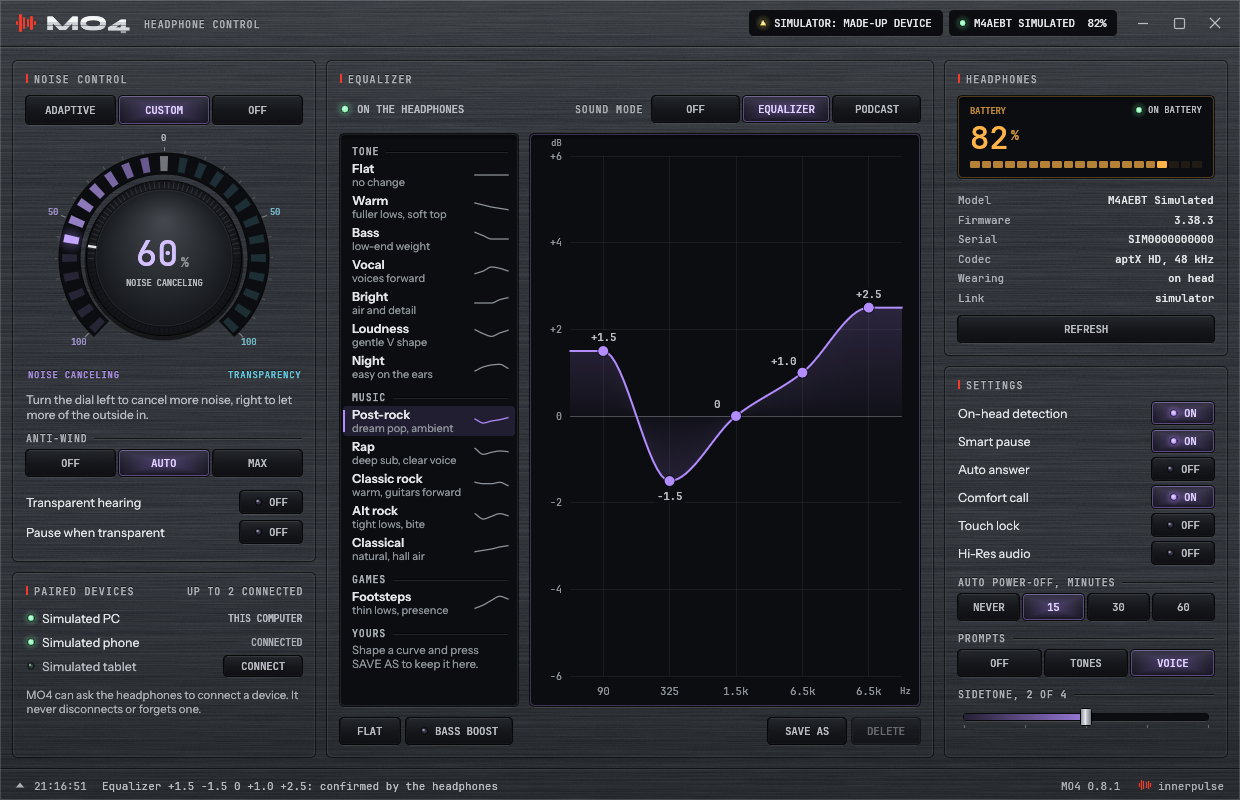
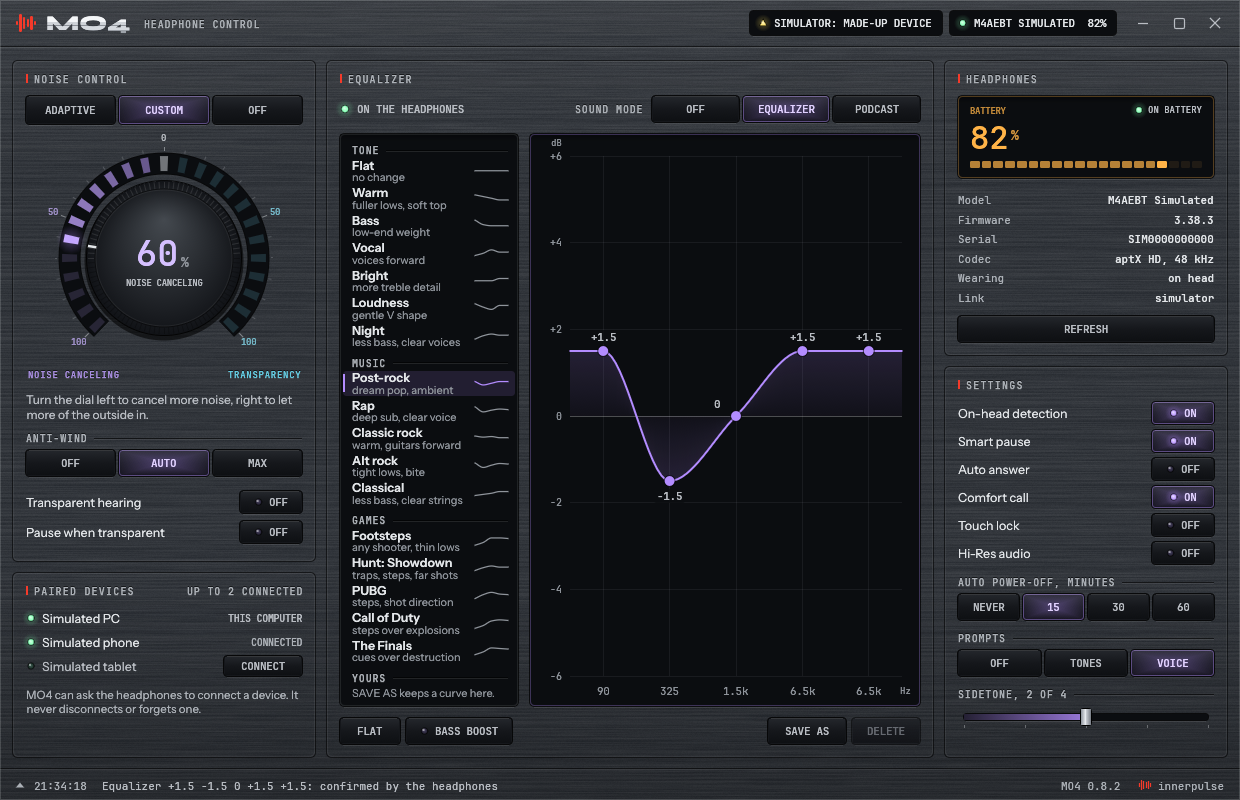
Version 0.8.2: presets checked against the bands, and four game curves
The built-in curves were written as if the fifth band sat above the
fourth. The headphones report 6.5 kHz for both, and what kind of filter
each band is has not been measured or published: the last two may be
one bell twice, or a bell and a shelf. So each curve was worked out for
bells throughout, for a shelf on top, and for a shelf at both ends.

Every built-in curve now keeps the last two bands within half a dB of
each other and their sum inside 6 dB. Its shape then holds on all three
readings, and no point of it moves by more than about 2 dB between
them. A test pins that. What changed because of it:

- Bright was +2.5 and +4.0, as much as +6.5 dB at 6.5 kHz; it is +2.0
  and +2.0. Footsteps was +5.0 and +3.0, as much as +8; it is +2.5 and
  +2.0 with more at 1.5 kHz.
- Classic rock, Night and Warm leaned on the two bands differing. Their
  intent is carried by 1.5 kHz and by equal top bands now.
- Bass adds less at 325 Hz: the wide 90 Hz band already reaches there.
- Notes that promised "air" say what the curve does.

New, for positional cues and clarity: Hunt: Showdown, PUBG, Call of
Duty and The Finals. They take the low band down, since rumble masks
quiet cues and these headphones add bass of their own, and bring up the
bands from about 1 to 6 kHz, each as far as its game's mix calls for.
They are reasoned starting points, not measurements; the README says
what they rest on and that published advice on footstep frequencies
disagrees.
[…]

diff --git a/src/store.rs b/src/store.rs
@@ -21,34 +21,63 @@ pub const YOURS: &str = "yours";
 /// Curves for the five-band equalizer, written for this app: group, name, note, and
 /// the gain of each band in tenths of a dB, lowest band first.
 ///
-/// The music curves are starting points by ear, not measurements. They assume what
-/// reviews agree on about these headphones, a bass-forward stock tuning, so they add
-/// less bass than a curve for a neutral headphone would, and they stay inside the
-/// headphones' range of 6 dB either way.
-const BUILTIN: [(&str, &str, &str, [i8; 5]); 13] = [
+/// What is known about the bands is what the headphones report: 90 Hz, 325 Hz, 1.5 kHz
+/// and 6.5 kHz twice, the first one wide (Q 0.5), the rest two octaves or so (Q 0.71).
+/// What kind of filter each one is has not been measured, and nobody has published it.
+/// The last two may be the same bell twice, or a bell and a shelf. So every curve here
+/// keeps those two within half a dB of each other and their sum inside 6 dB: worked out
+/// for bells throughout, for a shelf on top, and for a shelf at both ends, each curve
+/// keeps its shape, and no point of it moves by more than about 2 dB between the three.
+///
+/// These are starting points by ear and by reasoning, not measurements. They assume
+/// what reviews agree on about these headphones, a bass-forward stock tuning, so they
+/// add less bass than a curve for a neutral headphone would.
+const BUILTIN: [(&str, &str, &str, [i8; 5]); 17] = [
     ("tone", "Flat", "no change", [0, 0, 0, 0, 0]),
-    ("tone", "Warm", "fuller lows, soft top", [30, 15, 0, -10, -20]),
-    ("tone", "Bass", "low-end weight", [50, 25, 0, 0, 0]),
-    ("tone", "Vocal", "voices forward", [-20, 0, 30, 20, 0]),
-    ("tone", "Bright", "air and detail", [0, 0, 0, 25, 40]),
-    ("tone", "Loudness", "gentle V shape", [40, 10, -10, 15, 35]),
-    ("tone", "Night", "easy on the ears", [-30, 0, 15, 20, -10]),
+    ("tone", "Warm", "fuller lows, soft top", [30, 15, 0, -15, -15]),
+    // The wide 90 Hz band already reaches the low mids; only a little is added at 325.
+    ("tone", "Bass", "low-end weight", [50, 10, 0, 0, 0]),
+    ("tone", "Vocal", "voices forward", [-20, 0, 30, 10, 10]),
+    ("tone", "Bright", "more treble detail", [0, 0, 0, 20, 20]),
+    ("tone", "Loudness", "gentle V shape", [40, 10, -10, 25, 25]),
+    ("tone", "Night", "less bass, clear voices", [-30, 0, 15, 5, 5]),
     // Layered, reverb-heavy and quiet-to-loud: depth for pads and sub-bass, the low
-    // mids thinned so the wash stays clear, soft vocals left alone, air on top.
-    ("music", "Post-rock", "dream pop, ambient", [15, -15, 0, 10, 25]),
+    // mids thinned so the wash stays clear, soft vocals left alone, a lifted top.
+    ("music", "Post-rock", "dream pop, ambient", [15, -15, 0, 15, 15]),
     // Sub-bass carries the track and the voice has to stay in front of it: weight at
     // the bottom, mud out, a little presence for consonants and hi-hats.
     ("music", "Rap", "deep sub, clear voice", [35, -10, 5, 15, 10]),
     // Tape-era records are light below the kick and live in the mids: body and
-    // warmth added, guitars and voices forward, the top eased to keep cymbals kind.
-    ("music", "Classic rock", "warm, guitars forward", [20, 10, 10, 20, -5]),
+    // warmth added, guitars and voices brought forward at 1.5 kHz, the top left alone.
+    ("music", "Classic rock", "warm, guitars forward", [20, 10, 15, 5, 5]),
     // Dense, loud modern masters: punch kept tight, the crowded low mids pulled
-    // back, bite for distorted guitars without piling on the top.
-    ("music", "Alt rock", "tight lows, bite", [25, -15, 5, 25, 10]),
+    // back, bite for distorted guitars.
+    ("music", "Alt rock", "tight lows, bite", [25, -15, 5, 20, 15]),
     // An orchestra wants the headphone out of the way: the stock bass lift taken
-    // down, the mids untouched, strings and hall air brought up gently.
-    ("music", "Classical", "natural, hall air", [-20, -10, 0, 15, 25]),
-    ("games", "Footsteps", "thin lows, presence", [-40, -15, 20, 50, 30]),
+    // down, the mids untouched, strings brought up gently.
+    ("music", "Classical", "less bass, clear strings", [-20, -10, 0, 15, 15]),
+    // The games. What they share: rumble masks the quiet sounds that give a position
+    // away, and these headphones add bass of their own, so the low band comes down;
+    // steps, reloads and the cues that say where a sound is live from about 1 to 6 kHz,
+    // so those bands come up. How far each goes depends on the game's mix.
+    //
+    // For any shooter without a curve of its own.
+    ("games", "Footsteps", "any shooter, thin lows", [-40, -15, 25, 25, 20]),
+    // Sound is the game, and it uses the whole range: steps thud on wood and splash in
+    // water, crows, chains and glass give a position away, and how far off a shot was
+    // is told by its boom and its echo. The gentlest curve here: a little rumble out,
+    // the low mids kept, the middle up, and not much treble, because the guns are loud.
+    ("games", "Hunt: Showdown", "traps, steps, far shots", [-20, 5, 20, 10, 10]),
+    // Steps are heavy and sit lower than in most shooters, and a shot is placed by
+    // its crack and its thump together: the low mids are kept and lifted a little,
+    // the middle comes up the most, vehicles and the bombing lose some rumble.
+    ("games", "PUBG", "steps, shot direction", [-25, 10, 30, 15, 10]),
+    // The busiest mix of the four: explosions, streaks and aircraft bury quiet steps.
+    // The strongest cut below, low mids included, and the most lift where steps are.
+    ("games", "Call of Duty", "steps over explosions", [-45, -20, 20, 30, 25]),
+    // Buildings come down all match long. Between the last two: the rumble of
+    // destruction down, steps, gadgets and their beeps up.
+    ("games", "The Finals", "cues over destruction", [-35, -10, 25, 20, 15]),
 ];
 
 pub fn builtin_presets() -> Vec<Preset> {
@@ -167,6 +196,18 @@ mod tests {
         }
     }
 
+    /// The headphones report one frequency for the last two bands, and whether they
+    /// are the same filter is not known. A curve that leans on the difference between
+    /// them, or stacks them, would be a different curve on each reading.
+    #[test]
+    fn builtin_curves_treat_the_twin_bands_alike() {
+        for p in builtin_presets() {
+            let (a, b) = (p.gains[3], p.gains[4]);
+            assert!((a - b).abs() <= 5, "{}: the last two bands differ by more than half a dB", p.name);
+            assert!((a + b).abs() <= 60, "{}: the last two bands add up to more than 6 dB", p.name);
+        }
+    }
+
     #[test]
     fn builtin_presets_are_distinct_and_findable() {
         let all = builtin_presets();
@@ -178,5 +219,8 @@ mod tests {
         }
         assert_eq!(find_preset(&all, "classic rock").map(|p| p.group), Some("music"));
         assert!(find_preset(&all, "post-rock").is_some());
+        for game in ["Hunt: Showdown", "pubg", "call of duty", "the finals", "footsteps"] {
+            assert_eq!(find_preset(&all, game).map(|p| p.group), Some("games"), "{game}");
+        }
     }
 }

diff --git a/src/ui/mod.rs b/src/ui/mod.rs
@@ -56,6 +56,8 @@ struct App {
     delete_asked: Option<Instant>,
     /// When the Hi-Res switch was first pressed; it goes on at the second press.
     hi_res_asked: Option<Instant>,
+    /// The preset that was just saved, until the list has scrolled to it.
+    saved: Option<String>,
     /// The paired device whose CONNECT key was pressed once, and when.
     connect_asked: Option<(u8, Instant)>,
     /// The same for SWITCH OFF on the USB card.
@@ -75,7 +77,7 @@ pub fn run(target: Target, trace: bool, shot: Option<(String, Duration)>) -> Res
         .with_title("MO4")
         .with_app_id("mo4")
         .with_inner_size([1240.0, 800.0])
-        .with_min_inner_size([1140.0, 790.0])
+        .with_min_inner_size([1140.0, 800.0])
         .with_icon(egui::IconData { rgba: include_bytes!("../../assets/icon-256.rgba").to_vec(), width: 256, height: 256 })
         .with_decorations(false);
     let options = eframe::NativeOptions { viewport, ..Default::default() };
@@ -105,6 +107,7 @@ pub fn run(target: Target, trace: bool, shot: Option<(String, Duration)>) -> Res
                 hint: None,
                 delete_asked: None,
                 hi_res_asked: None,
+                saved: None,
                 connect_asked: None,
                 off_asked: None,
                 shot: shot.map(|(path, delay)| Shot { path, frames: 0, requested: false, started: Instant::now(), delay }),
@@ -521,15 +524,22 @@ impl App {
         egui::ScrollArea::vertical().show(&mut child, |ui| {
             let mut group = "";
             let heading = |ui: &mut Ui, text: &str| {
-                let (r, _) = ui.allocate_exact_size(vec2(ui.available_width(), 22.0), Sense::hover());
-                widgets::caption(ui.painter(), Rect::from_min_max(pos2(r.left() + 11.0, r.top() + 8.0), pos2(r.right() - 9.0, r.bottom())), text);
+                let (r, _) = ui.allocate_exact_size(vec2(ui.available_width(), 20.0), Sense::hover());
+                widgets::caption(ui.painter(), Rect::from_min_max(pos2(r.left() + 11.0, r.top() + 7.0), pos2(r.right() - 9.0, r.bottom())), text);
             };
             for preset in self.presets.iter().filter(|x| x.gains.len() == bands) {
                 if preset.group != group {
                     group = preset.group;
                     heading(ui, group);
                 }
-                let (row, resp) = ui.allocate_exact_size(vec2(ui.available_width(), 32.0), if usable { Sense::click() } else { Sense::hover() });
+                // Rows are as tight as two lines allow, so every built-in curve is in view
+                // at the window's first size; the list scrolls once your own are added.
+                let (row, resp) = ui.allocate_exact_size(vec2(ui.available_width(), 27.5), if usable { Sense::click() } else { Sense::hover() });
+                if self.saved.as_deref() == Some(preset.name.as_str()) {
+                    // A curve that was just saved is brought into view.
+                    resp.scroll_to_me(Some(egui::Align::Center));
+                    self.saved = None;
+                }
                 let active = usable && preset.gains == shown;
                 let rp = widgets::painter(ui, usable);
                 let hover = ui.ctx().animate_bool(resp.id.with("hover"), resp.hovered() && usable);
@@ -540,9 +550,9 @@ impl App {
                     rp.rect_filled(Rect::from_min_size(row.min + vec2(2.0, 5.0), vec2(2.0, row.height() - 10.0)), CornerRadius::same(1), TINT);
                 }
                 let text_clip = rp.with_clip_rect(Rect::from_min_max(row.min, pos2(row.right() - 46.0, row.bottom())).intersect(rp.clip_rect()));
-                text_clip.text(row.min + vec2(11.0, 2.0), Align2::LEFT_TOP, &preset.name, semi(12.5), steel::TEXT);
-                text_clip.text(row.min + vec2(11.0, 16.5), Align2::LEFT_TOP, &preset.note, sans(11.0), steel::TEXT_3);
-                widgets::spark(&rp, Rect::from_min_max(pos2(row.right() - 42.0, row.top() + 8.0), pos2(row.right() - 9.0, row.bottom() - 8.0)), &preset.gains, if active { TINT } else { steel::TEXT_3 });
+                text_clip.text(row.min + vec2(11.0, 0.5), Align2::LEFT_TOP, &preset.name, semi(12.5), steel::TEXT);
+                text_clip.text(row.min + vec2(11.0, 14.0), Align2::LEFT_TOP, &preset.note, sans(11.0), steel::TEXT_3);
+                widgets::spark(&rp, Rect::from_min_max(pos2(row.right() - 42.0, row.top() + 7.0), pos2(row.right() - 9.0, row.bottom() - 7.0)), &preset.gains, if active { TINT } else { steel::TEXT_3 });
                 resp.widget_info(|| egui::WidgetInfo::selected(egui::WidgetType::Button, usable, active, format!("Preset {}", preset.name)));
                 if resp.has_focus() {
                     rp.rect_stroke(row.shrink2(vec2(2.0, 1.0)), CornerRadius::same(steel::R_KEY), Stroke::new(1.0, steel::EMBER), StrokeKind::Inside);
@@ -554,9 +564,8 @@ impl App {
             if !self.presets.iter().any(|x| !x.builtin) {
                 // Nothing of the user's own yet: say how to get one here.
                 heading(ui, store::YOURS);
-                let (r, _) = ui.allocate_exact_size(vec2(ui.available_width(), 36.0), Sense::hover());
-                let g = ui.painter().layout("Shape a curve and press SAVE AS to keep it here.".to_owned(), sans(11.5), steel::TEXT_3, r.width() - 22.0);
-                ui.painter().galley(r.min + vec2(11.0, 2.0), g, steel::TEXT_3);
+                let (r, _) = ui.allocate_exact_size(vec2(ui.available_width(), 20.0), Sense::hover());
+                ui.painter().text(r.min + vec2(11.0, 2.0), Align2::LEFT_TOP, "SAVE AS keeps a curve here.", sans(11.0), steel::TEXT_3);
             }
         });
         if let Some(gains) = apply {
@@ -656,7 +665,10 @@ impl App {
         self.presets.retain(|x| !x.name.eq_ignore_ascii_case(name));
         self.presets.push(Preset { name: name.to_string(), note: "saved by you".into(), gains, builtin: false, group: store::YOURS });
         match store::save_presets(&self.presets) {
-            Ok(()) => self.note(format!("Preset \"{name}\" saved"), Tone::Good),
+            Ok(()) => {
+                self.saved = Some(name.to_string());
+                self.note(format!("Preset \"{name}\" saved"), Tone::Good);
+            }
             Err(e) => self.note(format!("Could not save presets: {e}"), Tone::Bad),
         }
     }

diff --git a/src/cli.rs b/src/cli.rs
@@ -225,7 +225,7 @@ pub fn run(args: &[String], target: &Target, trace: bool) -> Result<(), String> 
         Some("help") | Some("--help") | Some("-h") => print!("{HELP}"),
         Some("presets") => {
             for p in store::load_presets() {
-                println!("{:<6} {:<13} {:<28} {}", p.group, p.name, device::gains_text(&p.gains), p.note);
+                println!("{:<6} {:<15} {:<26} {}", p.group, p.name, device::gains_text(&p.gains), p.note);
             }
         }
         Some("status") => {

diff --git a/README.md b/README.md
@@ -91,22 +91,43 @@ each still has its own gain, and the window says so when you point at them.
 | Group | Preset | Curve | For |
 |---|---|---|---|
 | Tone | Flat | 0 0 0 0 0 | no change |
-| Tone | Warm | +3.0 +1.5 0 -1.0 -2.0 | fuller lows, a softer top |
-| Tone | Bass | +5.0 +2.5 0 0 0 | low-end weight |
-| Tone | Vocal | -2.0 0 +3.0 +2.0 0 | voices forward |
-| Tone | Bright | 0 0 0 +2.5 +4.0 | air and detail |
-| Tone | Loudness | +4.0 +1.0 -1.0 +1.5 +3.5 | a gentle V for low volume |
-| Tone | Night | -3.0 0 +1.5 +2.0 -1.0 | easy on the ears |
-| Music | Post-rock | +1.5 -1.5 0 +1.0 +2.5 | post-rock, dream pop, ambient electronica: depth for pads, a clear wash, air on top |
+| Tone | Warm | +3.0 +1.5 0 -1.5 -1.5 | fuller lows, a softer top |
+| Tone | Bass | +5.0 +1.0 0 0 0 | low-end weight |
+| Tone | Vocal | -2.0 0 +3.0 +1.0 +1.0 | voices forward |
+| Tone | Bright | 0 0 0 +2.0 +2.0 | more treble detail |
+| Tone | Loudness | +4.0 +1.0 -1.0 +2.5 +2.5 | a gentle V for low volume |
+| Tone | Night | -3.0 0 +1.5 +0.5 +0.5 | less bass, clear voices |
+| Music | Post-rock | +1.5 -1.5 0 +1.5 +1.5 | post-rock, dream pop, ambient electronica: depth for pads, a clear wash, a lifted top |
 | Music | Rap | +3.5 -1.0 +0.5 +1.5 +1.0 | sub-bass weight with the voice kept in front |
-| Music | Classic rock | +2.0 +1.0 +1.0 +2.0 -0.5 | body and warmth, guitars forward, an easier top |
-| Music | Alt rock | +2.5 -1.5 +0.5 +2.5 +1.0 | tight punch, less mud, guitar bite |
-| Music | Classical | -2.0 -1.0 0 +1.5 +2.5 | less of the stock bass lift, strings and hall air |
-| Games | Footsteps | -4.0 -1.5 +2.0 +5.0 +3.0 | thin lows, lifted presence |
+| Music | Classic rock | +2.0 +1.0 +1.5 +0.5 +0.5 | body and warmth, guitars forward |
+| Music | Alt rock | +2.5 -1.5 +0.5 +2.0 +1.5 | tight punch, less mud, guitar bite |
+| Music | Classical | -2.0 -1.0 0 +1.5 +1.5 | less of the stock bass lift, clear strings |
+| Games | Footsteps | -4.0 -1.5 +2.5 +2.5 +2.0 | any shooter without a curve of its own |
+| Games | Hunt: Showdown | -2.0 +0.5 +2.0 +1.0 +1.0 | the gentlest: sound traps, steps on every surface, how far off a shot was |
+| Games | PUBG | -2.5 +1.0 +3.0 +1.5 +1.0 | heavy steps and the direction of a shot, less vehicle rumble |
+| Games | Call of Duty | -4.5 -2.0 +2.0 +3.0 +2.5 | the strongest: steps over explosions and streaks |
+| Games | The Finals | -3.5 -1.0 +2.5 +2.0 +1.5 | steps and gadgets over collapsing buildings |
 
-The music presets are starting points by ear, not measurements. They assume the
+These are starting points by ear and by reasoning, not measurements. They assume the
 bass-forward tuning reviewers agree these headphones have, so they add less bass than a
 curve for a neutral headphone would. Change them to taste and keep your own.
+
+### What the curves rest on
+
+The headphones say where each band is and how wide (the first is wider than the rest),
+but not what kind of filter it is, and nobody has published a measurement. The last two
+bands may be the same bell twice, or a bell and a shelf. Every built-in curve was
+worked out for both, and for a shelf at each end: it keeps the last two bands within
+half a dB of each other and their sum inside 6 dB, so its shape holds either way and no
+point of it moves by more than about 2 dB between the readings.
+
+The game curves share one idea. Rumble masks the quiet sounds that give a position
+away, and these headphones add bass of their own, so the low band comes down; steps,
+reloads and the cues that place a sound sit from about 1 to 6 kHz, so those bands come
+up. How far each one goes follows the game's mix. Published advice on which frequencies
+carry footsteps disagrees from guide to guide, and no equalizer adds positional cues a
+game did not mix in: use the game's own headphone mode, and don't put a second
+virtual-surround layer on top of it.
 
 ## Install
 
